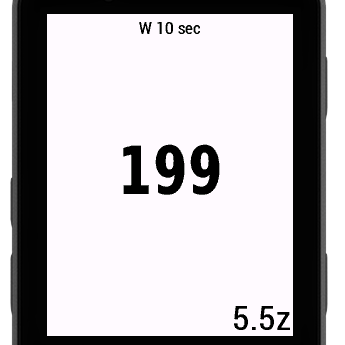
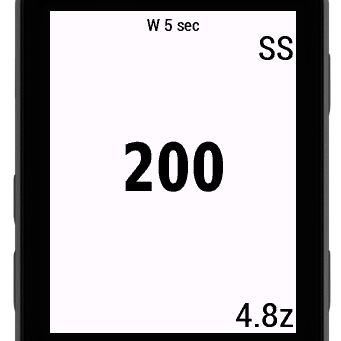
prepare 1.0.0

diff --git a/README.md b/README.md
@@ -2,6 +2,7 @@
 
 This Data Filed displays current average power and zone in one data field.
 If data field is too small, then it only displays the current power without zone.
+If you are on Sweet Spot zone then on right corner you have info about this. 
 
 ## What’s New
 
